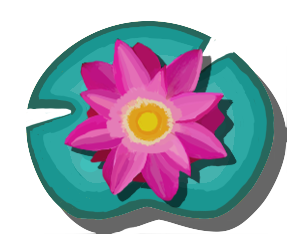
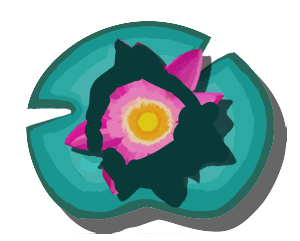
:fire: rainbow coloured lotuses

Changed region(s): [[0.27, 0.1452, 0.78, 0.8423]]

diff --git a/meditate_app/lib/flame/components/rainbow_lilypad.dart b/meditate_app/lib/flame/components/rainbow_lilypad.dart
@@ -1,0 +1,69 @@
+import 'dart:math';
+
+import 'package:flame/components.dart';
+import 'package:flame/palette.dart';
+import 'package:flutter/material.dart';
+
+import '../../util/turtles.dart';
+
+class RainbowLilypad extends SpriteComponent with HasGameRef {
+  static const speed = 0.25;
+
+  static Paint white = BasicPalette.white.paint();
+  static Paint red = BasicPalette.red.paint();
+  static Paint blue = BasicPalette.blue.paint();
+
+  final double lilypadSize;
+
+  RainbowLilypad(Vector2 position, this.lilypadSize)
+      : super(position: position);
+
+  late int lilypadColor;
+
+  @override
+  Future<void> onLoad() async {
+    super.onLoad();
+    sprite = await gameRef.loadSprite('game/lilypad3.png');
+    size.setValues(lilypadSize, lilypadSize * 14 / 16);
+    anchor = Anchor.center;
+
+    lilypadColor = Random().nextInt(TURTLE_COLORS.length);
+
+    //mostly pink and white
+    if (Random().nextInt(10) < 3) {
+      lilypadColor = 14;
+    } else if (Random().nextInt(10) < 3) {
+      lilypadColor = 17;
+    } else if (Random().nextInt(10) < 2) {
+      lilypadColor = 13;
+    }
+
+    Sprite overlay = await gameRef.loadSprite(
+      'game/lilypad_flower.png',
+    );
+
+    Paint newPaint = Paint()
+      ..colorFilter = ColorFilter.mode(
+          TURTLE_COLORS[lilypadColor].withOpacity(0.5), BlendMode.srcATop);
+
+    add(SpriteComponent(
+        sprite: overlay,
+        size: Vector2(lilypadSize, lilypadSize * 14 / 16),
+        paint: newPaint));
+  }
+
+  // @override
+  // bool onTapUp(TapUpInfo info) {
+  //   //  size.setValues(0, 0);
+  //   HapticFeedback.mediumImpact();
+  //   info.handled = true;
+
+  //   popBack();
+  //   return true;
+  // }
+
+  Future<void> popBack() async {
+    //  await Future.delayed(Duration(seconds: Random().nextInt(2) + 1));
+    //size.setValues(lilypadSize, lilypadSize);
+  }
+}

diff --git a/meditate_app/lib/flame/turtlegame.dart b/meditate_app/lib/flame/turtlegame.dart
@@ -13,6 +13,7 @@ import 'package:meditate_app/flame/components/butterfly.dart';
 import 'package:meditate_app/flame/components/fish.dart';
 import 'package:meditate_app/flame/components/lilypad.dart';
 import 'package:meditate_app/flame/components/other_turtle.dart';
+import 'package:meditate_app/flame/components/rainbow_lilypad.dart';
 import 'package:meditate_app/flame/components/seafloor_object.dart';
 import 'package:meditate_app/flame/components/turtle_world.dart';
 import 'package:meditate_app/util/turtles.dart';
@@ -75,8 +76,15 @@ class TurtleGame extends FlameGame with HasTappables {
 
     add(cameraPoint);
 
-    for (int i = 0; i < 1600; i++) {
+    for (int i = 0; i < 600; i++) {
       add(Lilypad(
+          Vector2(math.Random().nextInt(20000).toDouble() - 10000,
+              math.Random().nextInt(20000).toDouble() - 10000),
+          (70 + math.Random().nextInt(30)).toDouble()));
+    }
+
+    for (int i = 0; i < 1000; i++) {
+      add(RainbowLilypad(
           Vector2(math.Random().nextInt(20000).toDouble() - 10000,
               math.Random().nextInt(20000).toDouble() - 10000),
           (70 + math.Random().nextInt(30)).toDouble()));

diff --git a/meditate_app/lib/flame/components/lilypad.dart b/meditate_app/lib/flame/components/lilypad.dart
@@ -18,19 +18,13 @@ class Lilypad extends SpriteComponent with HasGameRef {
   @override
   Future<void> onLoad() async {
     super.onLoad();
-    int variant = Random().nextInt(5);
+    int variant = Random().nextInt(2);
     if (variant == 0) {
       sprite = await gameRef.loadSprite('game/lilypad.png');
     } else if (variant == 1) {
       sprite = await gameRef.loadSprite('game/lilypad2.png');
-    } else if (variant == 2) {
-      sprite = await gameRef.loadSprite('game/lilypad3.png');
-    } else if (variant == 3) {
-      sprite = await gameRef.loadSprite('game/lilypad4.png');
-    } else {
-      sprite = await gameRef.loadSprite('game/lilypad5.png');
     }
-    size.setValues(lilypadSize, lilypadSize);
+    size.setValues(lilypadSize, lilypadSize * 7 / 8);
     anchor = Anchor.center;
   }
 
